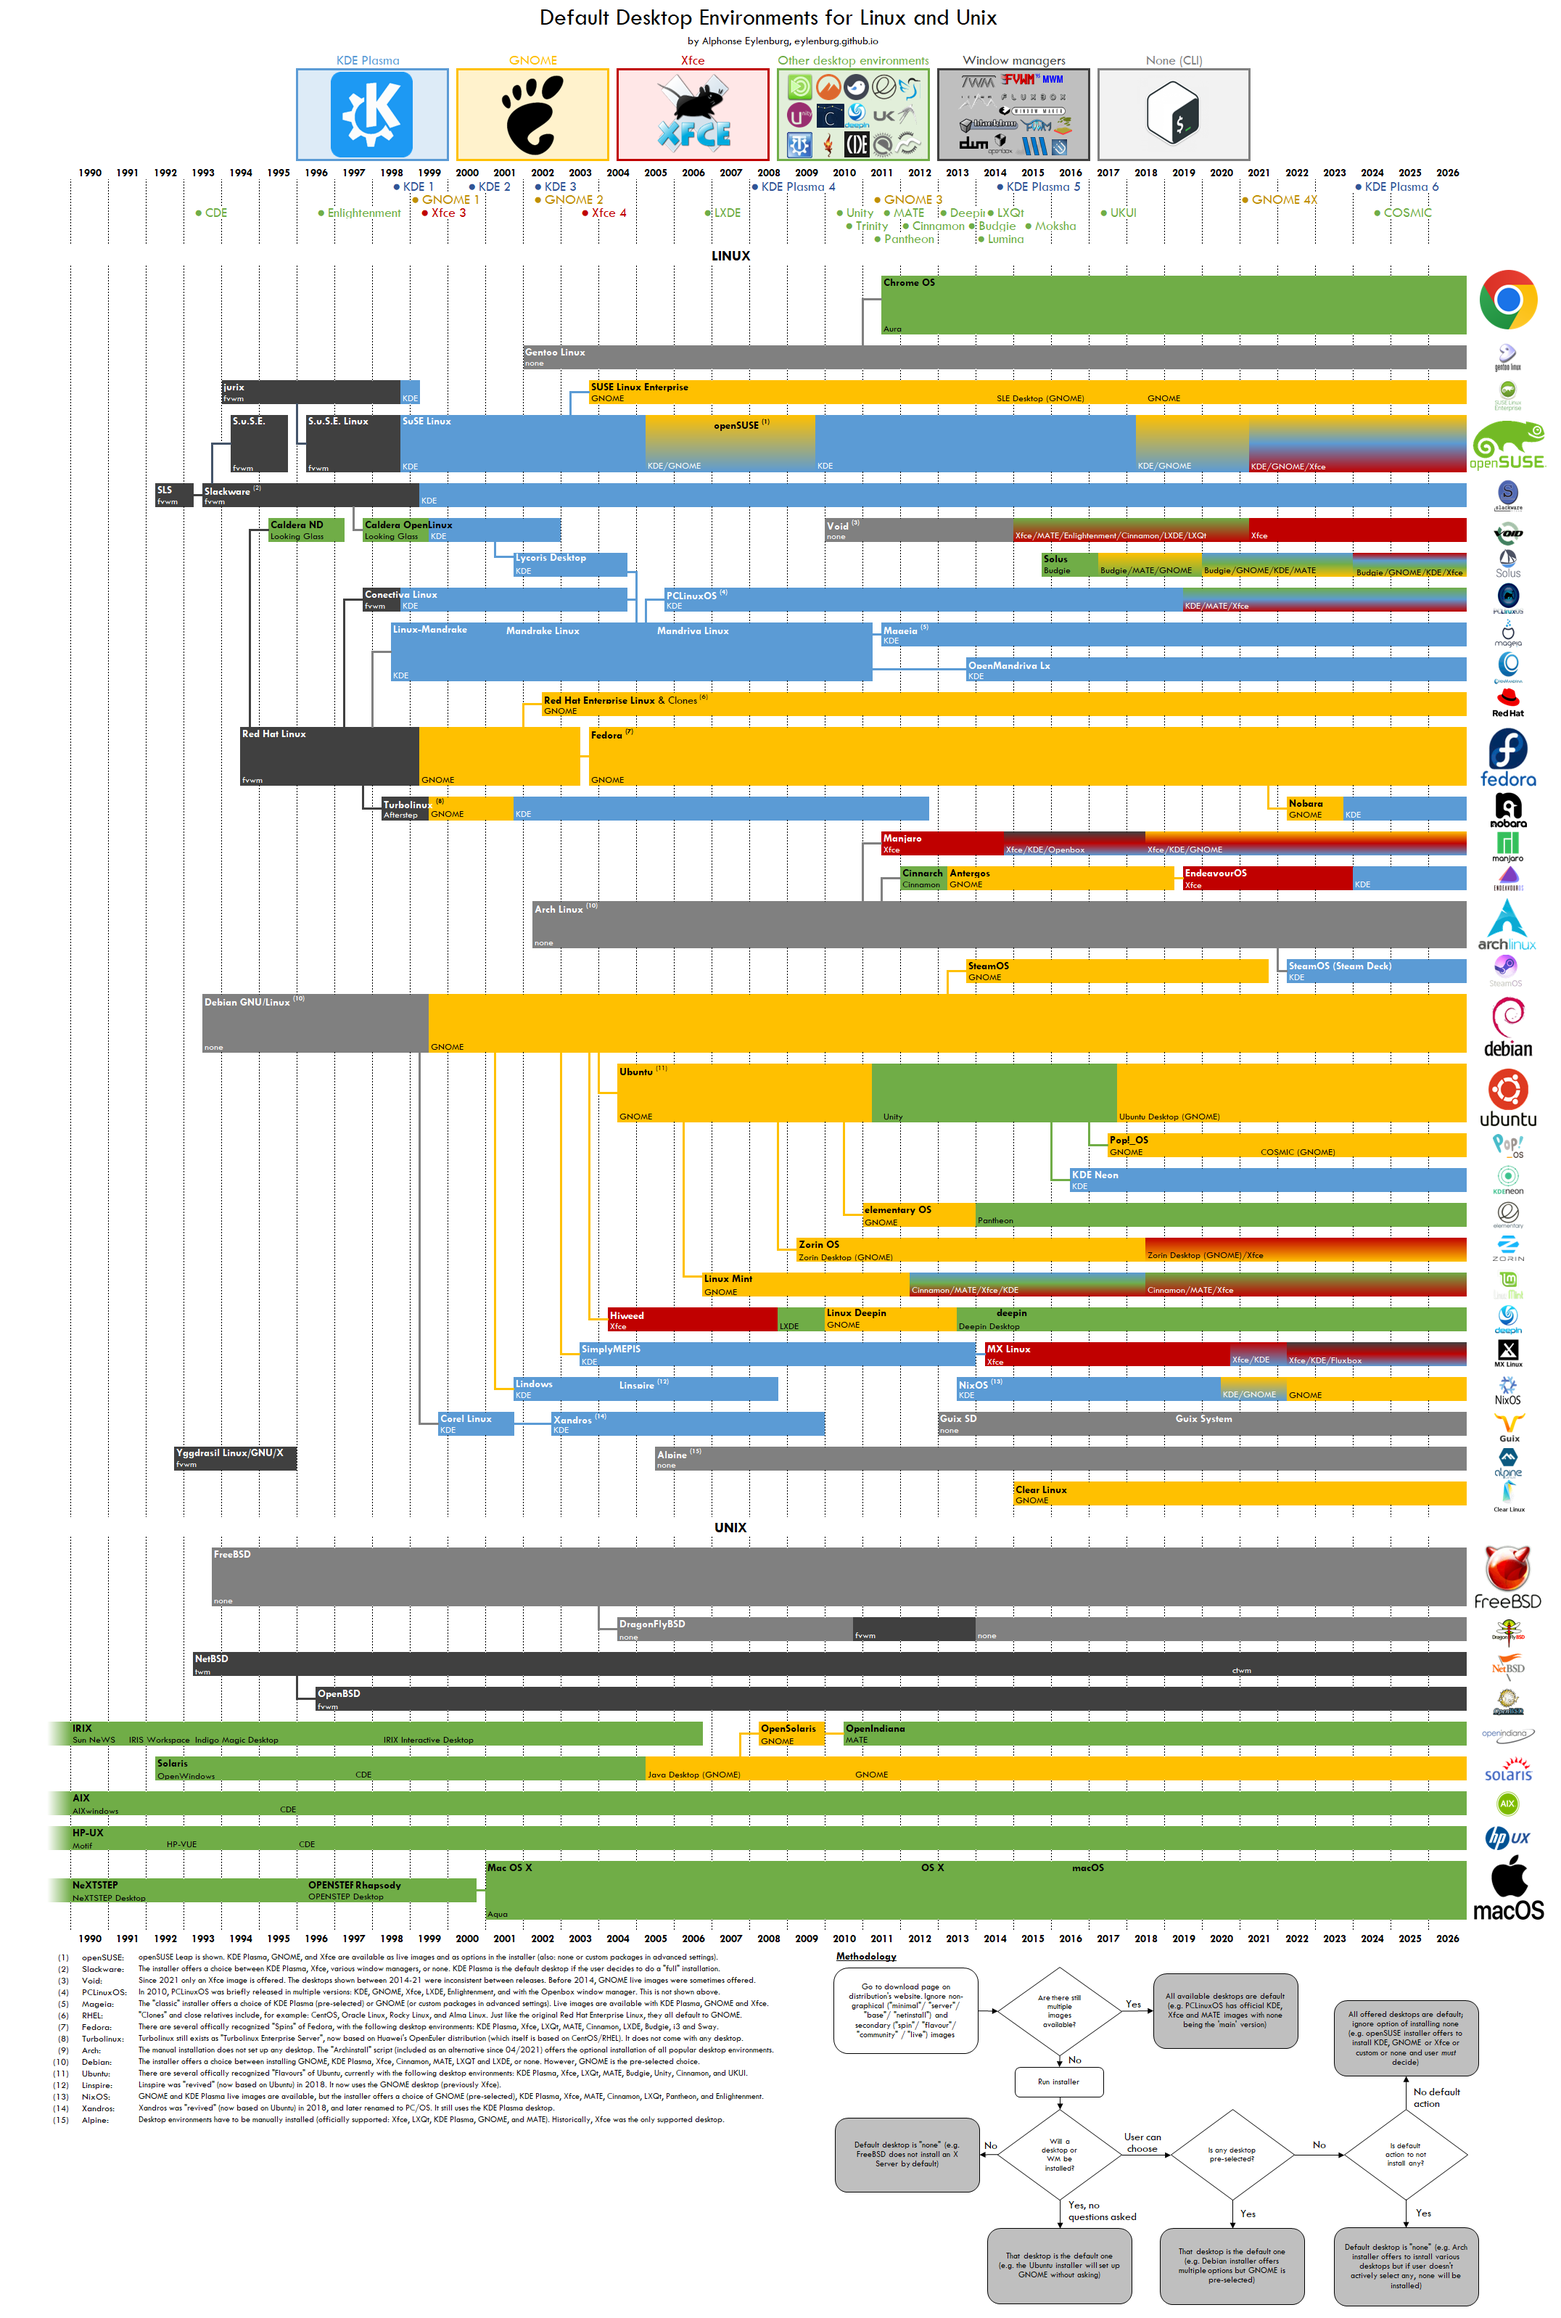
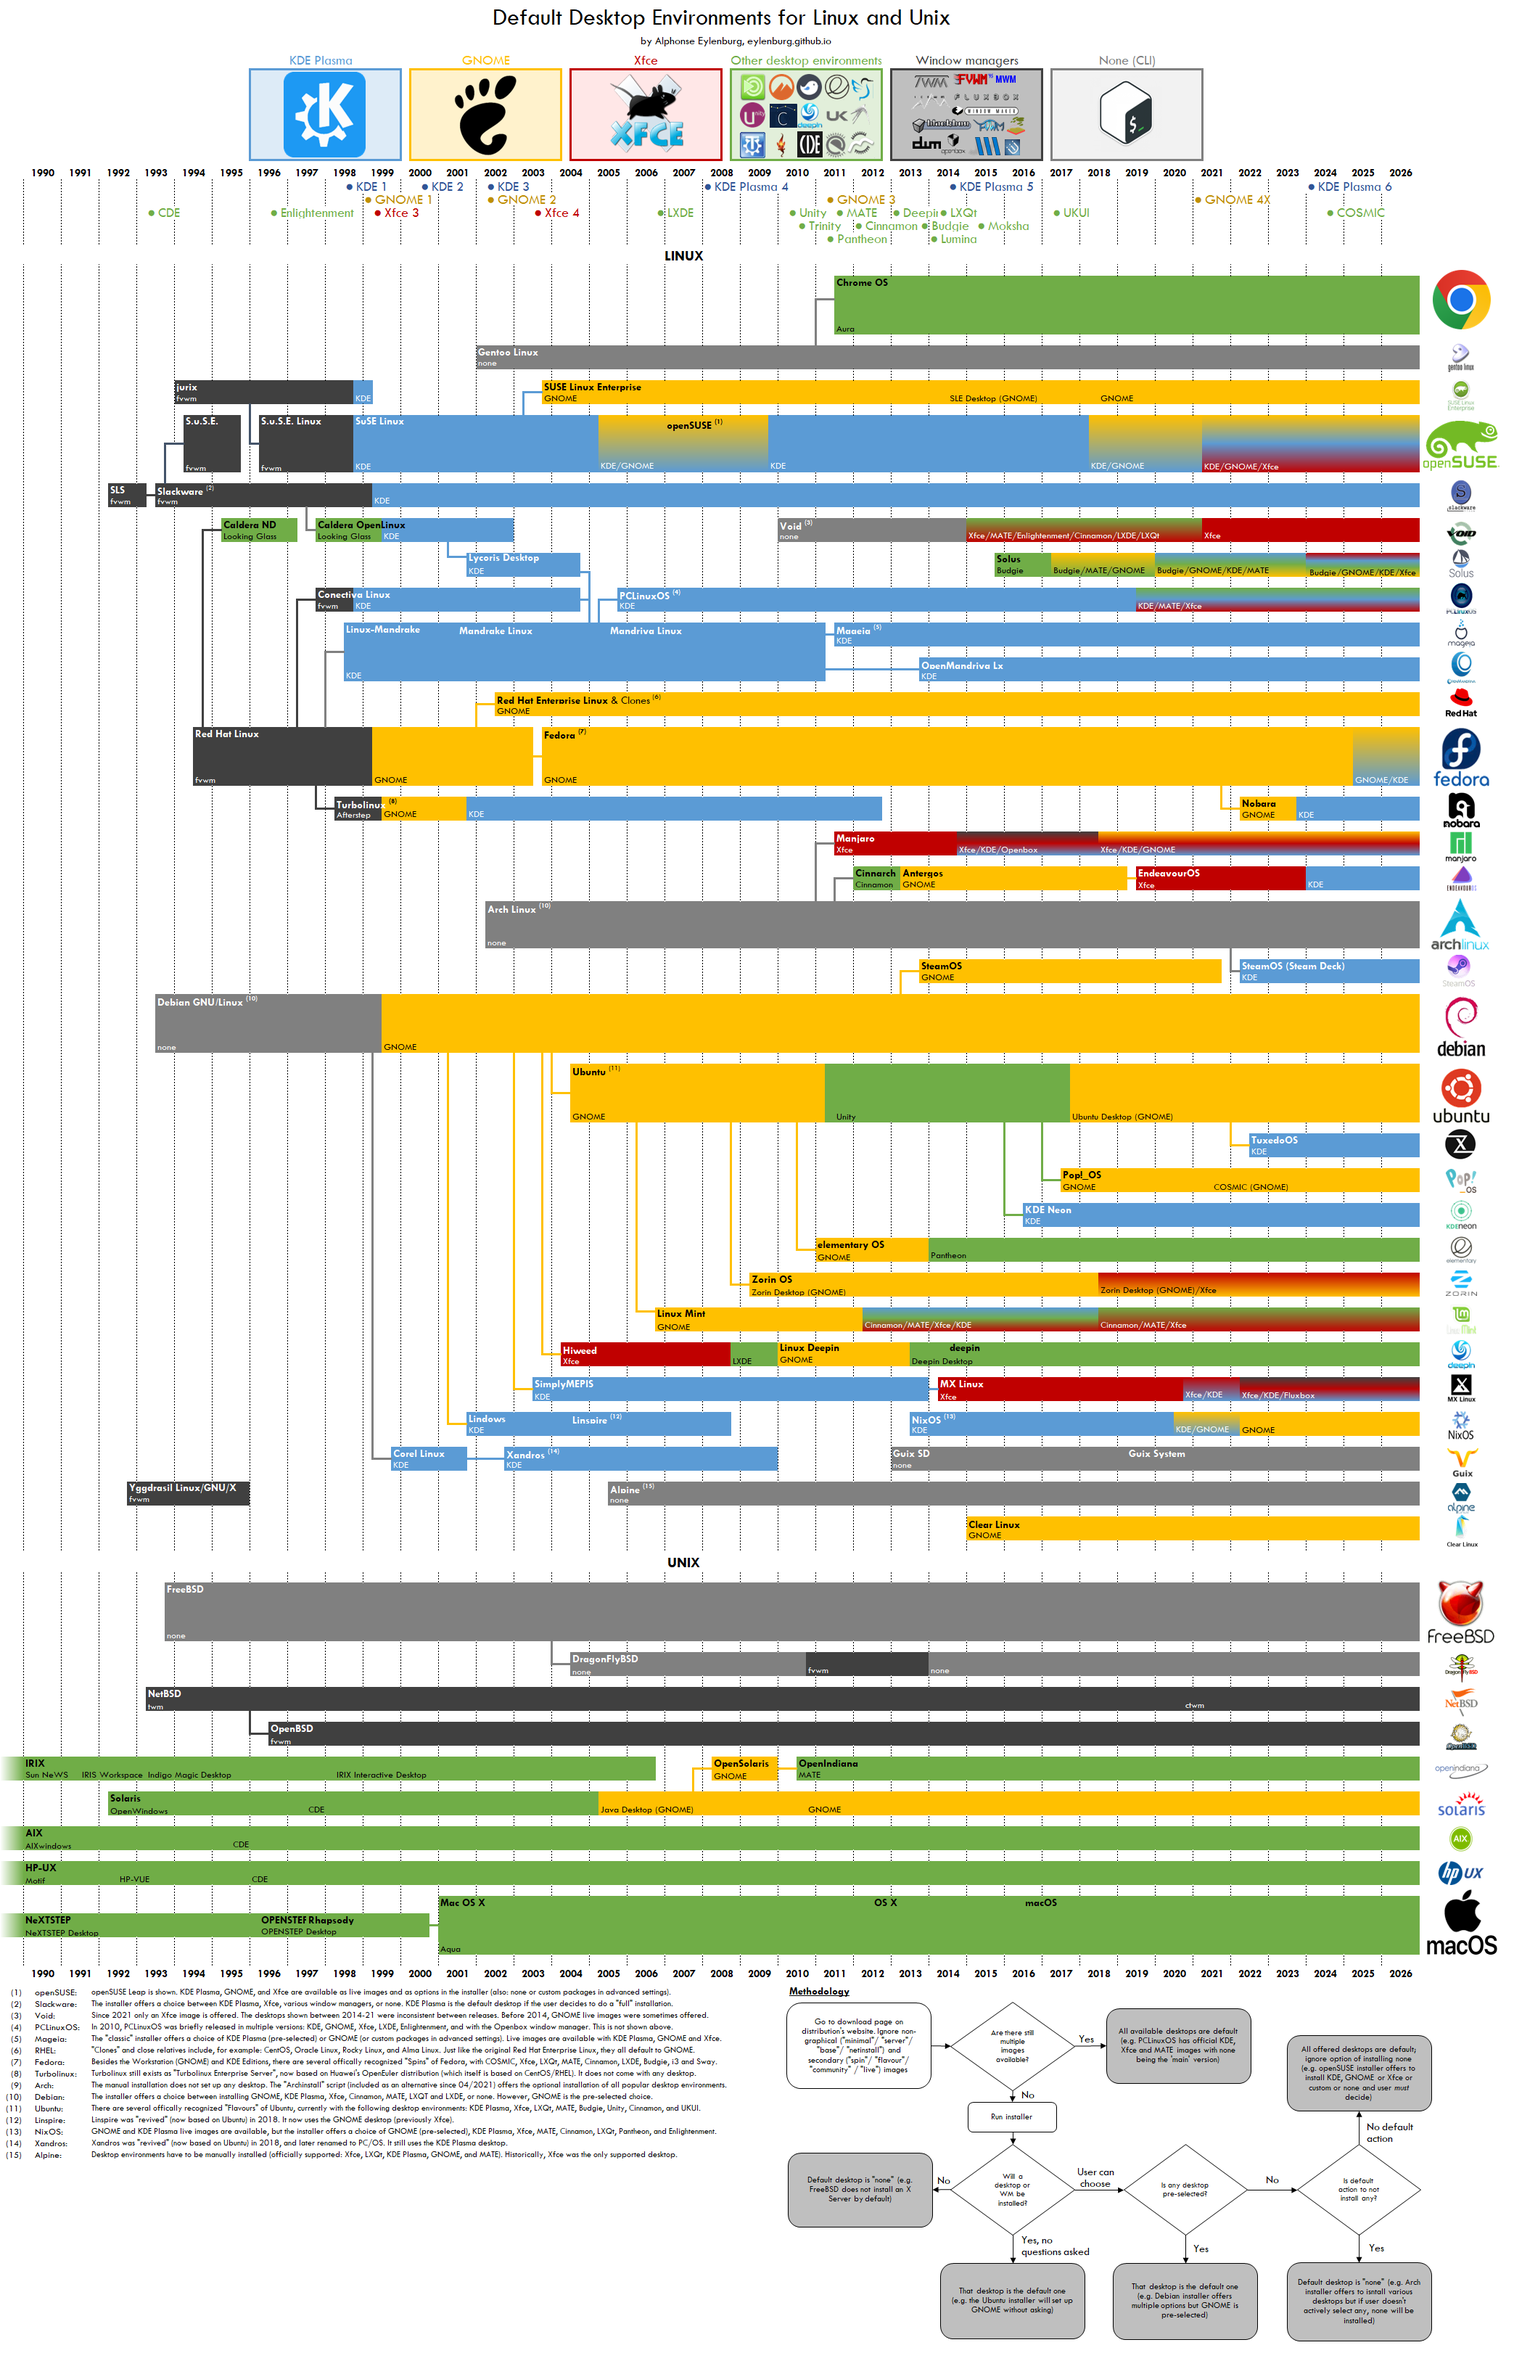
Fedora 42 release

diff --git a/de_default.htm b/de_default.htm
@@ -18,15 +18,15 @@
 
 <h1>Default Desktop Environments for Linux and Unix</h1>
 <h2>Timeline since 1990 showing the most important distributions</h2>
-<p style="color: red; font-size: small;">Last updated: January 2024</p>
+<p style="color: red; font-size: small;">Last updated: April 2025</p>
 
 <p>The picture below shows the standard/default desktop environments used by the most popular Linux distributions and Unix systems, since 2020. Please note the small annotations that explain why a desktop environment was determined to be the default choice or not, as this is not straightforward for every distribution. Generally, I have regarded a desktop as being the "default" if either:</p>
 
 <ul>
-<li>It is the desktop environment that shows up after installation, with no questions asked during installation. That's the most obvious case. Examples: Ubuntu, Fedora, elementary OS.</li>
+<li>It is the desktop environment that shows up after installation, with no questions asked during installation. That's the most obvious case. Examples: Ubuntu, elementary OS.</li>
 <li>It is the desktop environment that is pre-selected at installation, but the user can decide to install another desktop or none. Still, if you just click "Next" you'll end up with this desktop. Examples: Slackware, Debian.</li>
 <li>There are multiple desktop environments offered at installation, but none of them are selected by default. Examples: openSUSE.</li>
-<li>There are multiple images with different desktops available for download, so you have to choose your desktop environment before installing. Examples: Linux Mint, Budgie, Manjaro. These have to be presented equally on the website, hence Ubuntu Flavours and Fedora Spins don't count.</li>
+<li>There are multiple images with different desktops available for download, so you have to choose your desktop environment before installing. Examples: Linux Mint, Budgie, Manjaro. These have to be presented equally on the website, hence Ubuntu Flavours and Fedora Spins don't count. A special case is Fedora where since Fedora 42 (April 2025) there are two "Editions" (Workstation with GNOME, and the KDE Plasma Edition) and then several "Spins" with other desktops.</li>
 </ul>
 
 <p><strong>The flowchart at the bottom right of the graphic explains the methodology.</strong></p>
@@ -43,7 +43,7 @@
 <li>Many traditional KDE distros died (e.g. Mandriva, MEPIS, Caldera OpenLinux, Xandros, Turbolinux, or Conectiva) or changed from being a pure KDE distribution to one offering a choice of multiple desktops (e.g. openSUSE [choice in installer, no pre-selection], PCLinuxOS [multiple images], Mageia [choice in installer, KDE pre-selected], NixOS [choice in installer, GNOME pre-selected]). On the other hand GNOME distributions stayed relatively loyal. In the early 2000s the most important distributions were SUSE (KDE), Mandrake (KDE), Debian (GNOME), and Red Hat (GNOME). Nowadays it would be openSUSE (KDE/GNOME), Ubuntu (GNOME), Debian (GNOME), and Fedora/RHEL (GNOME). From a 50/50 split to a 12.5%/87.5% split.</li>
 <li>"Newcomer" distros often don't prefer either GNOME or KDE. There's a trend towards "home-grown" desktops, such as Mint's Cinnamon, Solus's Budgie, elementary OS's Pantheon, Deepin's Deepin Desktop, or pop_OS!'s COSMIC, and another trend towards offering Xfce as a "neutral" desktop (default or "flagship" desktop for Manjaro, Endeavour OS, MX Linux, and Void).</li>
 <li>GNOME = Corporate Linux. Red Hat (RHEL, CentOS, Fedora) always used GNOME, because they are the main developers of GNOME in the first place. SUSE Linux Enterprise Desktop only offers GNOME, unlike the agnostic openSUSE and KDE-only earlier versions of SUSE Linux. Canonical/Ubuntu stopped the development of their own desktop environment Unity and went back to GNOME in 2017. Oracle Solaris only offers GNOME.</li>
-<li>KDE seems to be more popular with Continental European developers and GNOME with Anglo-American developers. The KDE-only or historically KDE-focused distributions - openSUSE, Slackware, PCLinuxOS, Mageia, OpenMandriva, NixOS, KaOS - are all from Continental Europe with the exception of PCLinuxOS. The GNOME-only or historically GNOME-focused distributions - Fedora, RHEL, CentOS, Oracle Linux, Ubuntu, Clear Linux, pop_OS!, Zorin OS - are all from the United States or British Isles.</li>
+<li>KDE seems to be more popular with Continental European developers and GNOME with Anglo-American developers. The KDE-only or historically KDE-focused distributions - openSUSE, Mageia, OpenMandriva, NixOS, KaOS - are all from Continental Europe. The GNOME-only or historically GNOME-focused distributions - Fedora, RHEL, CentOS, Oracle Linux, Ubuntu, Clear Linux, pop_OS!, Zorin OS - are all from the Anglosphere.</li>
 </ul>
 
 <script src="bottom.js "></script>

diff --git a/index.html b/index.html
@@ -58,19 +58,19 @@ function close_wei_warning() {
 <h2>(2) &nbsp;<strong><a href="android_comparison.htm">Android-based Operating Systems - Comparison Table</a></strong> (6 ROMs)</h2><p> <span class="gold">(last update: April 2025)</span>
 <br />Comparison of 6 Android ROMs: GrapheneOS, <s>DivestOS</s>, CalyxOS, iodeOS, /e/, LineageOS, and stock Android.</p>
 
-<h2>(3) &nbsp;<strong><a href="linux_comparison.htm">Linux Distributions - Comparison Table &amp; Timeline</a></strong> (17 distributions)</h2><p> <span class="gold">(last update: March 2025)</span>
+<h2>(3) &nbsp;<strong><a href="linux_comparison.htm">Linux Distributions - Comparison Table &amp; Timeline</a></strong> (17 distributions)</h2><p> <span class="gold">(last update: April 2025)</span>
 <br />Comparison of almost 17 (actually 19) Linux distributions: Debian, Ubuntu, openSUSE Tumbleweed &amp; openSUSE MicroOS, SUSE Linux Enterprise, Fedora Workstation &amp; Fedora Atomic Desktop, Red Hat Enterprise Linux, OpenMandriva ROME, Mageia, PCLinuxOS, Arch, Slackware, Gentoo, Alpine, Void, NixOS, Guix System, and Solus.
 
 <br /><br />In the Appendix: How heterogeneous are the distributions today and how heterogeneous have they been historically? Looking at the most important distributions and their choice of desktop environment, widget toolkit, display server, package format, file system, init sofware, and security module from the year 2000 until today. 
 
 <br /><br />Also: A look at the relative popularity of Linux distributions over time, measured by Distrowatch hits.</p>
 
-<h2>(4a) <strong><a href="de_comparison.htm">Desktop Environments - Comparison Table &amp; List</a></strong> (9 desktops)</h2><p> <span class="gold">(last update: March 2025)</span>
+<h2>(4a) <strong><a href="de_comparison.htm">Desktop Environments - Comparison Table &amp; List</a></strong> (9 desktops)</h2><p> <span class="gold">(last update: April 2025)</span>
 <br />including Microsoft Windows, Aqua (macOS), KDE Plasma, GNOME, Xfce, MATE, Cinnamon, LXQt, Budgie (and formerly also: CDE, Enlightenment, Trinity, Unity, Pantheon, Lumina, Deepin, and UKUI).
 <br /><br />Also includes are very exhaustive list of available desktop environments, including discontinued and mobile ones.
 <br /><br />Also shown: Screenshots and short personal reviews of all the major desktops!</p>
 
-<h2>(4b) <strong><a href="de_default.htm">Desktop Environments - Default Choices for Linux and Unix</a></strong> from 1990 to Today</h2><p> <span class="gold">(last update: January 2024)</span>
+<h2>(4b) <strong><a href="de_default.htm">Desktop Environments - Default Choices for Linux and Unix</a></strong> from 1990 to Today</h2><p> <span class="gold">(last update: April 2025)</span>
 <br />Timeline since 1990 showing the most important distributions and their default desktops (KDE, GNOME, Xfce and others)</p>
 
 <h2>(5a) <strong><a href="browser_comparison.htm">Web Browsers - Comparison Table</a></strong> (7 browsers)</h2><p> <span class="gold">(last update: April 2025)</span>

diff --git a/linux_comparison.htm b/linux_comparison.htm
@@ -210,7 +210,7 @@ Distributions mostly differ in their package manager and their default choices (
 
 <h2 class="center">Comparison of Linux Distributions</h2>
 <p class="center">Source: eylenburg.github.io</p>
-<p class="center" style="color: red; font-size: small;">Last updated: 14 March 2025</p>
+<p class="center" style="color: red; font-size: small;">Last updated: 16 April 2025</p>
 
 <div>
     <label><input type="checkbox" checked onchange="toggleColumn(1)"> Debian</label>
@@ -627,7 +627,7 @@ Distributions mostly differ in their package manager and their default choices (
 <td class="almost">Server image</td>
 <td class="almost">Server image</td>
 <td class="almost">Server image</td>
-<td class="yes">Yes</td>
+<td><table class="split"><tr><td class="yes">Yes</td><td class="no tooltip">No<span class="tooltiptext">dropped from Fedora 42 onwards</span></td></tr></table></td>
 <td class="yes">Yes</td>
 <td class="no">No</td>
 <td class="no">No</td>
@@ -985,7 +985,7 @@ Distributions mostly differ in their package manager and their default choices (
 <td class="almost">Kubuntu</td>
 <td><table class="split"><tr><td class="almost">Option d. inst.</td><td class="almost tooltip">Kalpa<span class="tooltiptext">Still experimental</span></td></tr></table></td>
 <td class="notreally">In Package Hub</td>
-<td><table class="split"><tr><td class="almost">KDE Spin</td><td class="almost">Kinoite</td></tr></table></td>
+<td><table class="split"><tr><td class="yes">KDE Edition</td><td class="almost">Kinoite</td></tr></table></td>
 <td class="notreally">In EPEL</td>
 <td class="yes">Default</td>
 <td class="yes tooltip">Pre-selected choice<span class="tooltiptext">Also available as Live Image</span></td>
@@ -1007,7 +1007,7 @@ Distributions mostly differ in their package manager and their default choices (
 <td class="yes">Default</td>
 <td><table class="split"><tr><td class="almost">Option d. inst.</td><td class="almost tooltip">Aeon<span class="tooltiptext">Still experimental</span></td></tr></table></td>
 <td class="yes">Default</td>
-<td><table class="split"><tr><td class="yes">Default</td><td class="almost">Silver&shy;blue</td></tr></table></td>
+<td><table class="split"><tr><td class="yes">Work&shy;station</td><td class="almost">Silver&shy;blue</td></tr></table></td>
 <td class="yes">Default</td>
 <td class="almost">GNOME Spin</td>
 <td class="almost tooltip">Option during instal&shy;lation<span class="tooltiptext">Also available as Live Image</span></td>

diff --git a/de_comparison.htm b/de_comparison.htm
@@ -259,7 +259,7 @@ The desktop environment "landscape" has fragmented since the controversial initi
 
 <h2 class="center">Comparison of Desktop Environments (short version)</h2>
 <p class="center">Source: eylenburg.github.io</p>
-<p class="center" style="color: red; font-size: small;">Last updated: 28 March 2025</p>
+<p class="center" style="color: red; font-size: small;">Last updated: 16 April 2025</p>
 
 <table class="comparison">
 <colgroup>
@@ -1587,8 +1587,8 @@ The desktop environment "landscape" has fragmented since the controversial initi
 <tr>
 <td>Fedora</td>
 
-<td class="almost">default in KDE Spin</td> <!-- Plasma -->
-<td class="yes">default desktop</td> <!-- Gnome -->
+<td class="yes">default in KDE Edition</td> <!-- Plasma -->
+<td class="yes">default Workstation Edition</td> <!-- Gnome -->
 
 <td class="almost">default in Xfce Spin</td> <!-- Xfce -->
 <td class="almost">default in MATE Spin</td>  <!-- MATE -->
